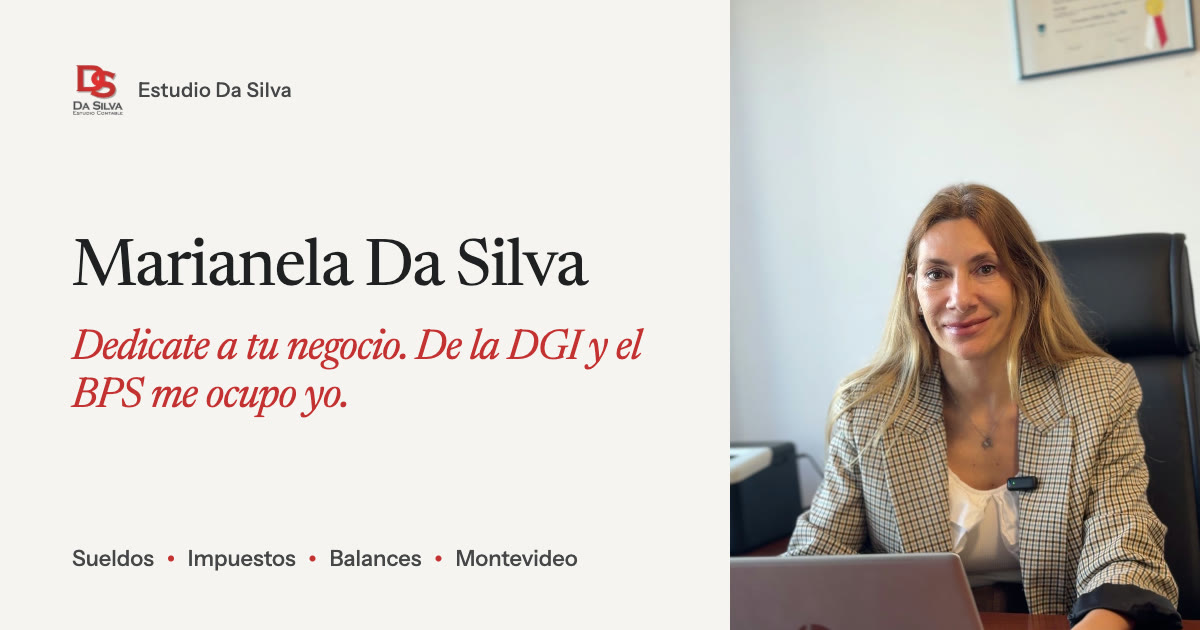
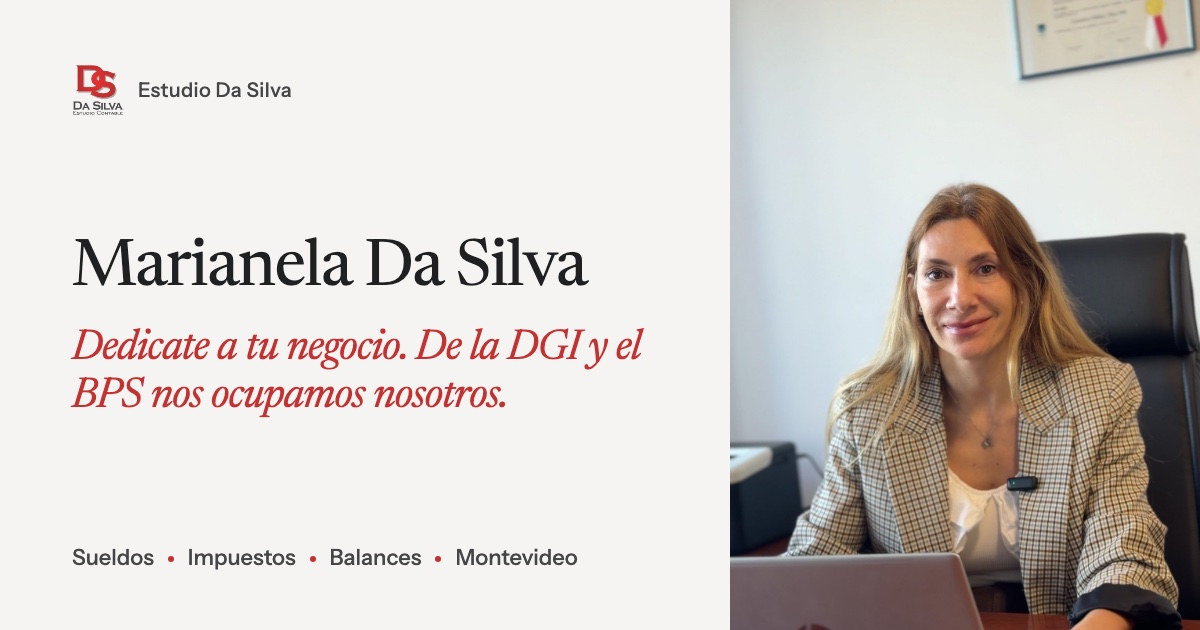
Miniatura del link en plural

diff --git a/index.html b/index.html
@@ -9,7 +9,7 @@
 <meta property="og:type" content="website">
 <meta property="og:title" content="Marianela Da Silva · Estudio Da Silva">
 <meta property="og:description" content="Contadora en Montevideo. Sueldos, impuestos, balances y asesoramiento para dueños de negocio y emprendedores.">
-<meta property="og:image" content="https://nativogrowth-png.github.io/estudio-dasilva/img/og.jpg">
+<meta property="og:image" content="https://nativogrowth-png.github.io/estudio-dasilva/img/og.jpg?v=2">
 <meta property="og:image:width" content="1200">
 <meta property="og:image:height" content="630">
 <meta property="og:url" content="https://nativogrowth-png.github.io/estudio-dasilva/">
